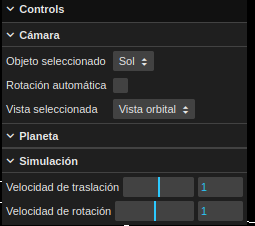
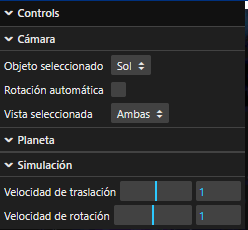
Modificadas imágenes de README.md y añadida explicación de trabajo realizado

Changed region(s): [[0.0, 0.0, 1.0, 1.0], [0.1694, 0.9912, 0.2258, 1.0]]

diff --git a/README.md b/README.md
@@ -3,6 +3,19 @@
 
 Simulación del sistema solar realizada con _three.js_ en la que se encuentran simulados el sol y todos los planetas del Sistema Solar (incluido Plutón).
 
+A continuación se realiza una descripción del trabajo realizado:
+
+- Se han representado todos los planetas del sistema solar, utilizando las texturas obtenidas de los enlaces en las referencias.
+- Se han representado las órbitas de los distintos planetas.
+- Se ha implementado una cámara órbital alrededor de los planetas y una cámara de nave.
+- Se ha implementado el puerto de vista de forma que se pueden visualizar las dos cámaras al mismo tiempo.
+- Se ha implementado un selector para poder poner el foco de la cámara orbital en un planeta, así como pulsar el propio planeta con el botón derecho del ratón mediante un raycaster.
+- Se ha añadido luz puntual para representar la luz del sol y luz ambiente para representar la luz del espacio exterior y ver mejor los planetas.
+- Se ha añadido un selector para activar y desactivar la rotación automática de la cámara orbital.
+- Se ha implementado la posibilidad de rotar los anillos de Saturno y Urano.
+- Se ha implementado la posibilidad de modificar la velocidad de traslación y rotación de los planetas.
+- Se ha añadido un skybox para dar más realismo a la simulación.
+
 ## Acceso a la versión web
 
 La versión web de este proyecto se encuentra en [este sandbox de codesandbox](https://26tf22.csb.app/).
@@ -64,7 +77,7 @@ Se han implementado dos tipos de camara para la simulación: una `cámara orbita
 #### Cámara orbital
 ![Simulación en modo de cámara orbital](assets/readme/orbital.png)
 
-En este modo la cámara _orbita_ alrededor de alguno de los objetos presentes en la simulación. Se puedo mover la camara arrastrando el ratón por la pantalla. Además se puede hacer _zoom_ utilizando la rueda del ratón hacía delante para aumentarñp y hacía atrás para disminuirlo.
+En este modo la cámara _orbita_ alrededor de alguno de los objetos presentes en la simulación. Se puede mover la camara arrastrando el ratón por la pantalla. Además se puede hacer _zoom_ utilizando la rueda del ratón hacía delante para aumentarlo y hacía atrás para disminuirlo.
 
 Se puede seleccionar el objeto sobre el que orbita la cámara pulsando con el botón derecho del ratón sobre el objeto deseado o seleccionándolo en el selector denominado _Objeto seleccionado_.
 
@@ -74,6 +87,7 @@ También se puede activar la rotación automática marcando la casilla _Rotació
 #### Cámara de nave
 
 ![Simulación en modo de cámara de nave](assets/readme/nave.png)
+
 En este modo la cámara se mueve libremente sobre la escena. Para mover la camara se utilizan las teclas _WASD_ y, para rotar se puede arrastrar con el ratón o utilizar las _teclas direccionales_.
 
 #### Cámara múltiple
@@ -95,4 +109,9 @@ La interfaz de usuario incluye unos selectores que permiten modificar la velocid
 Al seleccionar un planeta con anillos (`Saturno` o `Urano`) aparecerá en la sección _Planetas_ de la interfaz de usuario unos selectores que permitirán modificar la rotación del anillo de dicho planeta en X, Y, y Z.
 
 ## Referencias
-Todas las texturas, mapas de rugosidad, mapas de transparencia y el mapa de reflexión especular de la Tierra han sido sacados de [aquí](http://planetpixelemporium.com/planets.html).
+Todas las texturas, mapas de rugosidad, mapas de transparencia, mapa de reflexión especular de la Tierra y skybox han sido sacados de:
+
+- [PlanetPixelEmporium](http://planetpixelemporium.com/planets.html).
+- [SolarSystemScope](https://www.solarsystemscope.com/textures/).
+
+Para convertir la textura del skybox en CubeMap se ha utilizado la siguiente [herramienta](https://github.com/matheowis/HDRI-to-CubeMap).
